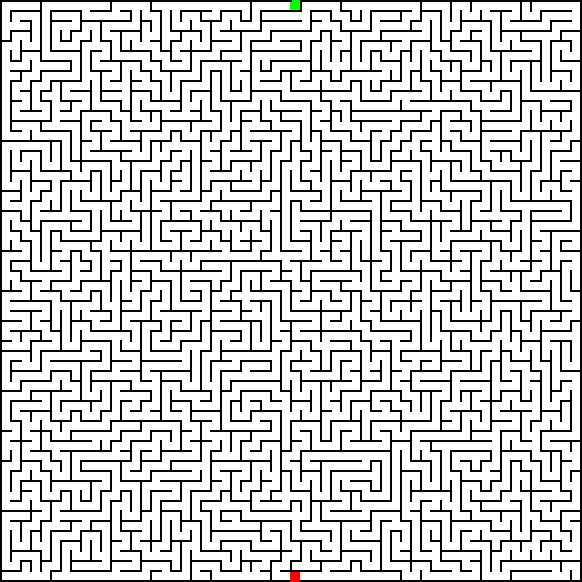
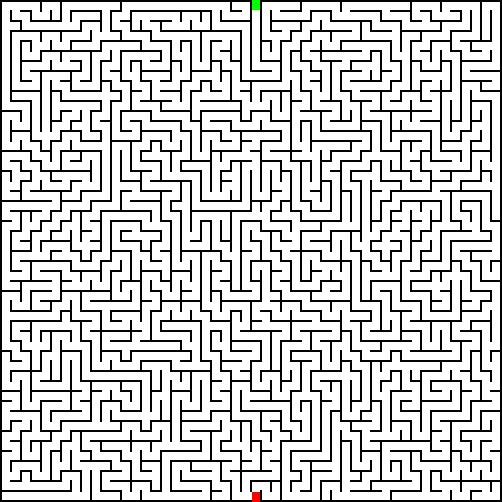
optimized drawing

diff --git a/src/Maze.cpp b/src/Maze.cpp
@@ -26,6 +26,8 @@ Maze::Maze(int w, int h, int _wallLen, int _cellLen) {
     finish->setVal(CELL_FINISH);
     start->destroyWall(0);
     finish->destroyWall(2);
+    imgSetup();
+    updateImage();
 }
 
 int Maze::getVal(int x, int y) {
@@ -49,10 +51,14 @@ Cell* Maze::getCell(int x, int y) {
 void Maze::dfsGenHelper(Cell* c) {
     if (c->seen()) return;
     c->visit();
-    if (saveGif) updateGif();
+    
     Cell* nextCell = c->randomNeighbour();
     while (nextCell != nullptr) {
         c->destroyBorder(nextCell);
+        if (saveGif) {
+            updateBorderPixels(c, c->directionFromNeighbour(nextCell), COLOR_WHITE);
+            addFrame();
+        }
         dfsGenHelper(nextCell);
         nextCell = c->randomNeighbour();
     }
@@ -61,10 +67,35 @@ void Maze::dfsGenHelper(Cell* c) {
 void Maze::genDFS() {
     if (saveGif) startGif("maze-gen(DFS).gif");
     dfsGenHelper(start);
-    updateImage();
+    if (!saveGif)
+        updateImage();
     saveImage("unsolved(DFS).png");
     if (saveGif) endGif();
 }
+
+// void Maze::genBFS() {
+//     if (saveGif) startGif("maze-gen(BFS).gif");
+//     std::queue<Cell*> q;
+//     Cell* current;
+//     q.push(start);
+//     while (q.size()) {
+//         std::cout << q.size() << std::endl;
+//         current = q.front(); q.pop();
+//         if (saveGif) updateGif();
+//         current->visit();
+//         Cell* neighbour = current->randomNeighbour();
+//         while (neighbour != nullptr) {
+//              std::cout << neighbour << std::endl;
+//             current->destroyBorder(neighbour);
+//             q.push(neighbour);
+//             neighbour->visit();
+//             neighbour = current->randomNeighbour();
+//         }
+//     }
+//     updateImage();
+//     saveImage("unsolved(BFS).png");
+//     if (saveGif) endGif();
+// }
 
 void Maze::genKruskal() {
     // if (saveGif) startGif("maze-gen(kruskal).gif");
@@ -89,19 +120,26 @@ bool Maze::solveDFSHelper(Cell* c) {
     if (c->getVal() == CELL_PATH) return false;
     if (c != start)
         c->setVal(CELL_PATH);
-    if (saveGif) updateGif();
+    if (saveGif) {
+        updateCellCol(c);
+        addFrame();
+    }
     std::vector<Cell*> accessible = c->accessibleNeighbours();
     for (auto n : accessible) 
         if (solveDFSHelper(n)) return true;
     c->setVal(CELL_WASTED);
+    if (saveGif) {
+        updateCellCol(c);
+        addFrame();
+    }
     return false;
 }
 
 void Maze::solveDFS() {
     if (saveGif) startGif("solve(DFS).gif");
     solveDFSHelper(start);
-    updateImage();
-    saveImage("solved(DFS).png");
+    //updateImage();
+    if (!saveGif) updateImage();
     if (saveGif) endGif();
 } 
 
@@ -111,9 +149,13 @@ void Maze::solveBFS() {
     std::unordered_map<Cell*, Cell*> path;
     Cell* current = start;
     while (current != finish) {
-        if (saveGif) updateGif();
+        
         if (current != start)
             current->setVal(CELL_WASTED);
+        if (saveGif) {
+            updateCellCol(current);
+            addFrame();
+        }
         std::vector<Cell*> neighbours = current->accessibleNeighbours();
         for (auto neighbour : neighbours) {
             if (neighbour->getVal() != CELL_WASTED)  {
@@ -127,9 +169,12 @@ void Maze::solveBFS() {
         current = path[current];
         if (current == start) break;
         current->setVal(CELL_PATH);
-        if (saveGif) updateGif();
+        if (saveGif) {
+            updateCellCol(current);
+            addFrame();
+        }
     }
-    updateImage();
+    if (!saveGif) updateImage();
     saveImage("solved(BFS).png");
     if (saveGif) endGif();
 }
@@ -142,20 +187,73 @@ void Maze::solveDijkstra() {
 
 // image
 
+void Maze::updateBorderPixels(Cell* c, int direction, RGBA col) {
+    int x = c->getX();
+    int y = c->getY();
+    std::pair<int, int> topLeft = std::make_pair(x*(cellLen + wallLen), y*(cellLen+wallLen));
+    switch  (direction) {
+        case 0:
+            iw->fillRect(topLeft.first + wallLen, topLeft.second, cellLen, wallLen, col);
+            break;
+        case 1:
+            iw->fillRect(topLeft.first + cellLen + wallLen, topLeft.second + wallLen, wallLen, cellLen, col);
+            break;
+        case 2:
+            iw->fillRect(topLeft.first + wallLen, topLeft.second + cellLen + wallLen, cellLen, wallLen, col);
+            break;
+        case 3:
+            iw->fillRect(topLeft.first, topLeft.second + wallLen, wallLen, cellLen, col);
+    }
+}
+
+void Maze::imgSetup()  { // draws all corners once so we dont repeat it
+    for (int x = 0; x < getWidth(); ++x) {
+		for (int y = 0; y < getHeight(); ++y) {
+        std::pair<int, int> tl = std::make_pair(x*(cellLen + wallLen), y*(cellLen+wallLen));
+		iw->fillRect(tl.first, tl.second, wallLen, wallLen, COLOR_BLACK); // corner
+        if (x == W-1) iw->fillRect(tl.first + wallLen + cellLen, tl.second, wallLen, wallLen, COLOR_BLACK);
+        if (y == H-1) iw->fillRect(tl.first, tl.second + wallLen + cellLen, wallLen, wallLen, COLOR_BLACK);
+        if (x == W-1 && y == H-1) iw->fillRect(tl.first + wallLen + cellLen, tl.second + wallLen + cellLen, wallLen, wallLen, COLOR_BLACK);
+		}
+	}
+}
+
+void Maze::updateCellCol(Cell* c) { // only updates pixels that arent border
+    if  (c->getVal() == CELL_UNVISITED) return; // we memset every pixel to white in imagewriter so we dont need to draw white anywhere.
+    RGBA col = cell_colors[c->getVal()];
+
+    int x = c->getX();
+    int y = c->getY();
+
+    std::pair<int, int> topLeft = std::make_pair(x*(cellLen + wallLen), y*(cellLen+wallLen));
+    RGBA* otherCol = iw->getPixel(topLeft.first + wallLen, topLeft.second + wallLen);
+    if (col.r == otherCol->r && col.g == otherCol->g && col.b == otherCol->b) return;
+    std::pair<int, int> bottomRight = std::make_pair(topLeft.first + cellLen + wallLen, topLeft.second + cellLen + wallLen);
+
+    std::pair<int, int> tl = topLeft;
+
+    iw->fillRect(topLeft.first + wallLen, topLeft.second + wallLen, cellLen, cellLen, col);
+    if (!c->north()) updateBorderPixels(c, 0, col);
+    if (!c->east()) updateBorderPixels(c, 1, col);
+    if (!c->south()) updateBorderPixels(c, 2, col);
+    if (!c->west()) updateBorderPixels(c, 3, col);
+}
+
+void Maze::updateCellPixels(Cell* c) {
+    updateCellCol(c);
+
+	if (c->north()) updateBorderPixels(c, 0, COLOR_BLACK);
+	if (c->east()) updateBorderPixels(c, 1, COLOR_BLACK);
+	if (c->south()) updateBorderPixels(c, 2, COLOR_BLACK);
+	if (c->west()) updateBorderPixels(c, 3, COLOR_BLACK);
+}
+
+
 void Maze::updateImage() {
 	// draw the cells:
 	for (int x = 0; x < getWidth(); ++x) {
 		for (int y = 0; y < getHeight(); ++y) {
-			std::pair<int, int> topLeft = std::make_pair(x*(cellLen + wallLen), y*(cellLen+wallLen));
-			int outsideLen = cellLen+(wallLen*2);
-			Cell* c = getCell(x, y);
-            
-			iw->fillRect(topLeft.first, topLeft.second, outsideLen, outsideLen, cell_colors[c->getVal()]);
-			if (c->north()) iw->fillRect(topLeft.first, topLeft.second, outsideLen, wallLen, COLOR_BLACK);
-			if (c->east()) iw->fillRect(topLeft.first + cellLen + wallLen, topLeft.second, wallLen, outsideLen, COLOR_BLACK);
-			if (c->south()) iw->fillRect(topLeft.first, topLeft.second + cellLen + wallLen, outsideLen, wallLen, COLOR_BLACK);
-			if (c->west()) iw->fillRect(topLeft.first, topLeft.second, wallLen, outsideLen, COLOR_BLACK);
-			iw->fillRect(topLeft.first, topLeft.second, wallLen, wallLen, COLOR_BLACK);
+			updateCellPixels(getCell(x,y));
 		}
 	}
 }
@@ -168,9 +266,13 @@ void Maze::startGif(const char* gifName) {
     GifBegin(gw, gifName, iw->getWidth(), iw->getHeight(), gifDelay);
 }
 
+void Maze::addFrame() {
+    GifWriteFrame(gw, iw->getData(), iw->getWidth(), iw->getHeight(), gifDelay);
+}
+
 void Maze::updateGif() {
     updateImage();
-    GifWriteFrame(gw, iw->getData(), iw->getWidth(), iw->getHeight(), gifDelay);
+    addFrame();
 }
 
 void Maze::endGif() {

diff --git a/src/ImageWriter.cpp b/src/ImageWriter.cpp
@@ -21,6 +21,7 @@ ImageWriter::ImageWriter(int w, int h, int _channels) {
 	height = h;
 	channels = _channels;
 	data = (unsigned char*)malloc(channels * width * height);
+	memset(data, 255, channels * width * height);
 }
 
 void ImageWriter::resize(int w, int h) {
@@ -51,8 +52,12 @@ void printPix(RGBA p) {
 	printf("RGBA: (%i,%i,%i,%i)\n", p.r, p.g, p.b, p.a);
 }
 
+RGBA* ImageWriter::getPixel(int x, int y) {
+	if (x < 0 || x >= width || y < 0 || y >= height) printf("ERROR: getpixel out of bounds (%i,%i)\n", x, y);
+	return (RGBA*)(data + (x + width * y) * channels);
+}
+
 void ImageWriter::setPixel(int x, int y, RGBA col) {
-	
 	if (x < 0 || x >= width || y < 0 || y >= height) printf("ERROR: setpixel out of bounds (%i,%i)\n", x, y);
 	RGBA* pixelOffset = (RGBA*)(data + (x + width * y) * channels);
 	pixelOffset->r = col.r;

diff --git a/include/Maze.h b/include/Maze.h
@@ -39,6 +39,7 @@ public:
     Cell* getCell(int x, int y);
 
     void genDFS();
+    //void genBFS();
     void genKruskal();
     
     void solveDFS();
@@ -48,9 +49,14 @@ public:
 
     void startGif(const char* gifName);
     void updateGif();
+    void addFrame();
     void endGif();
 
+    void imgSetup();
     void updateImage();
+    void updateCellCol(Cell* c);
+    void updateBorderPixels(Cell* c, int direction, RGBA col);
+    void updateCellPixels(Cell* c);
     void saveImage(const char* imgName);
 
 };

diff --git a/include/ImageWriter.h b/include/ImageWriter.h
@@ -25,6 +25,7 @@ public:
     ImageWriter();
     ImageWriter(int w, int h, int _channels = DEFAULT_CHANNELS);
     ~ImageWriter();
+    RGBA* getPixel(int x, int y);
     void setPixel(int x, int y, RGBA col);
     void fillRect(int x, int y, int w, int h, RGBA col);
     int getWidth();

diff --git a/src/main.cpp b/src/main.cpp
@@ -14,7 +14,7 @@ int main(int argc, char** argv) {
     // while ((opt) = getopt(argc, argv, "tttt") != -1)
     
     srand(seed);
-    Maze maze = Maze(20, 20);
+    Maze maze = Maze(50, 50);
     maze.genDFS();
     maze.solveBFS();
     return 0;
